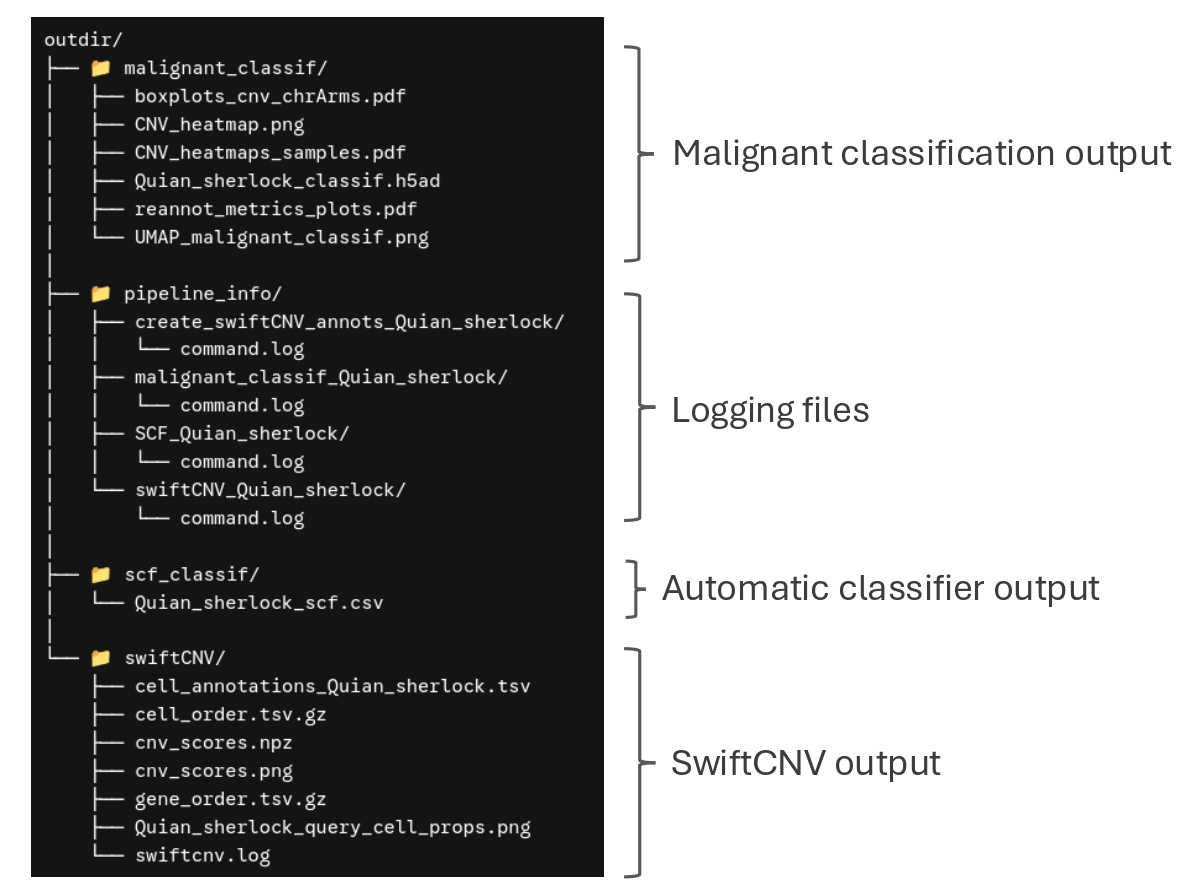
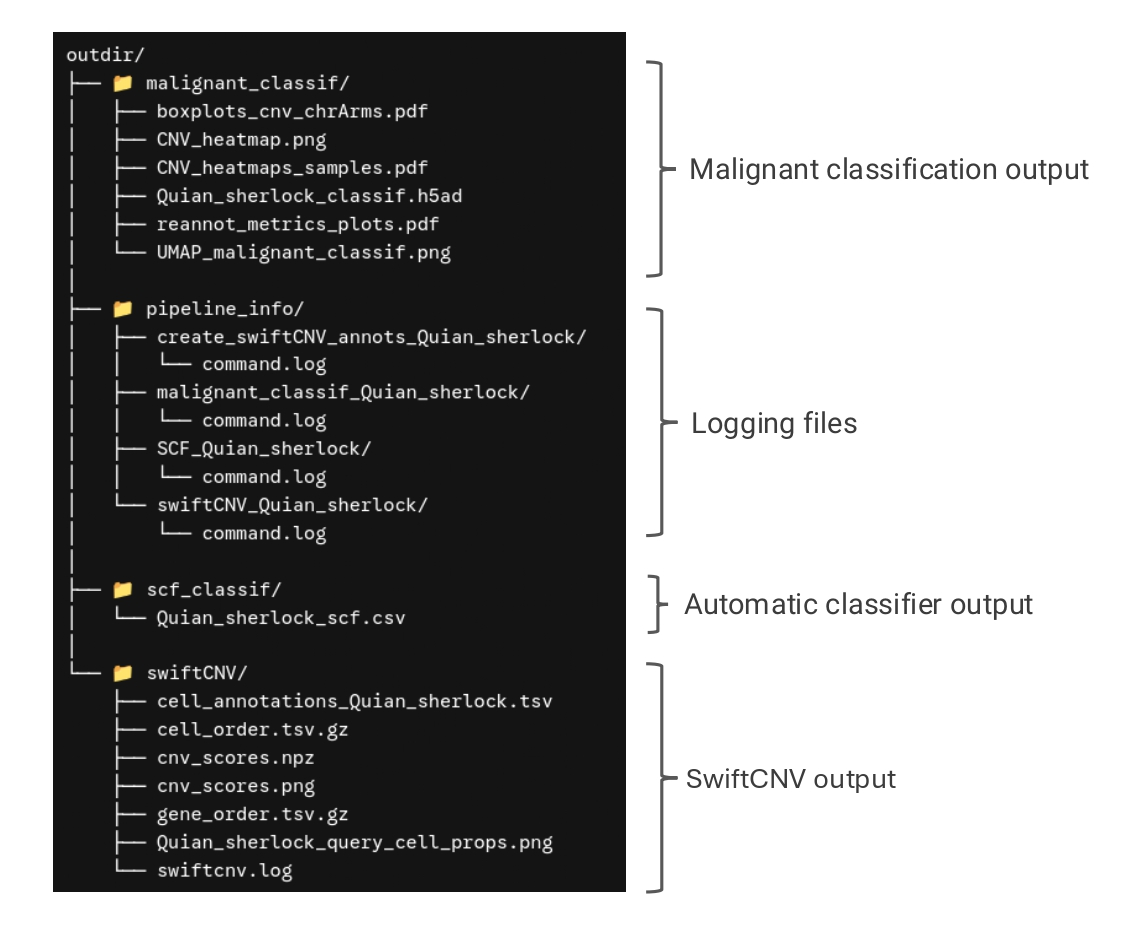
Initialised wiki

Changed region(s): [[0.0, 0.0, 0.9973, 1.0]]

diff --git a/README.md b/README.md
@@ -10,9 +10,7 @@ The pipeline comprises 3 different modules:
 
 ## Documentation
 
-An explanation of the malignant classification logic and steps can be found in...
-
-## Installation
+A detailed explanation of the malignant classification pipeline can be found in the project [wiki](https://github.com/Computational-Immunogenomics/SherlockCell/wiki).
 
 
 ## Usage
@@ -26,16 +24,23 @@ The input parameters for SherlockCell are passed throught a samplesheet.tsv file
 
 ## Output files
 
-SherlockCell generates several reports for each step of the classification. An overview of all output files generated by the pipeline is shown in the figure below.
+SherlockCell creates several reports for each classification step. An overview of all output files is shown in the figure below.
 
-<img src="docs/images/output_files.jpg" alt="output_files" align="center" style="width: 350px; height: auto;">
+<img src="docs/images/output_files.jpg" alt="output_files" align="center" style="width: 400px; height: auto;">  
 
-The image UMAP_malignant_classif shows the result of the malignant classification in the UMAP emmbedding.
+<br>
+
+The image UMAP_malignant_classif shows the result of the malignant classification in the UMAP emmbedding.  
+
+<br>
 
 <img src="docs/images/UMAP_malignant_classif.png" alt="Scores distribution" align="center">  
   
+<br>
 
-Additionally, a figure showing the distributions of the three malignancy scores and the classification thresholds used for each sample is provided.
+Additionally, a figure showing the distributions of the three malignancy scores and the classification thresholds used for each sample is provided along with other plots in the reannot_metrics_plots.pdf file.
+
+<br>
 
 <img src="docs/images/scores_distrib.png" alt="Scores distribution" align="center">
 
